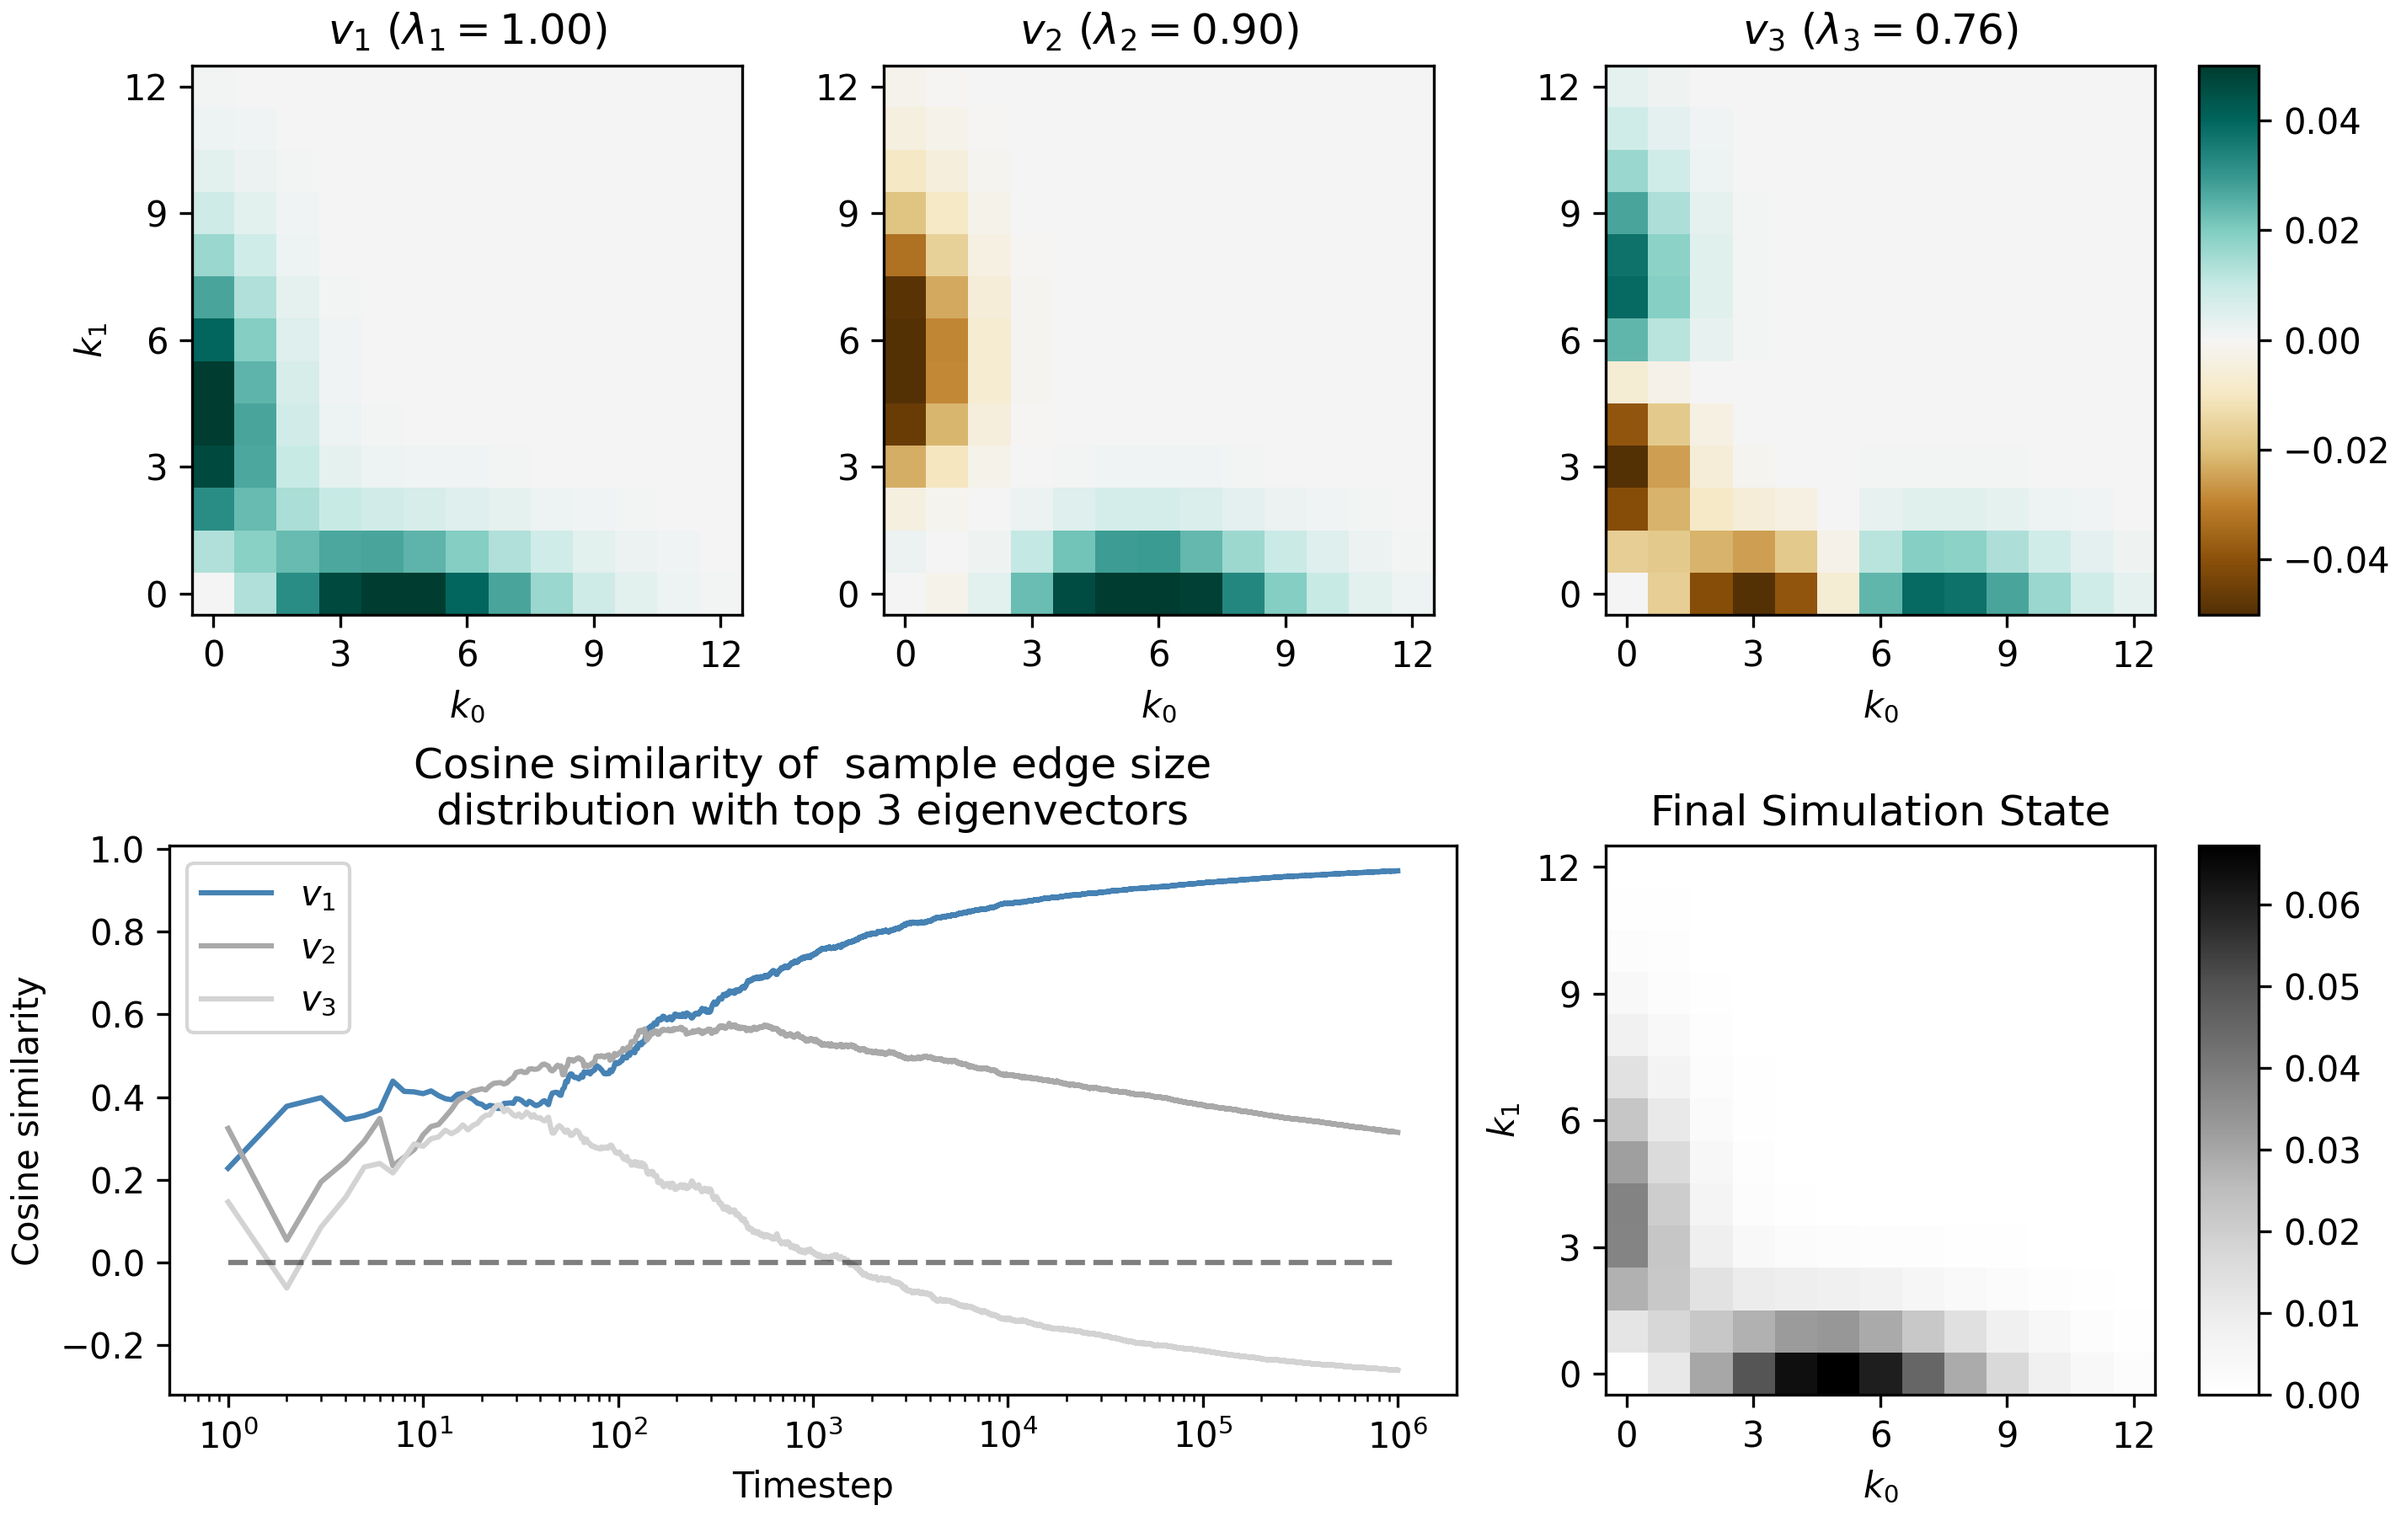
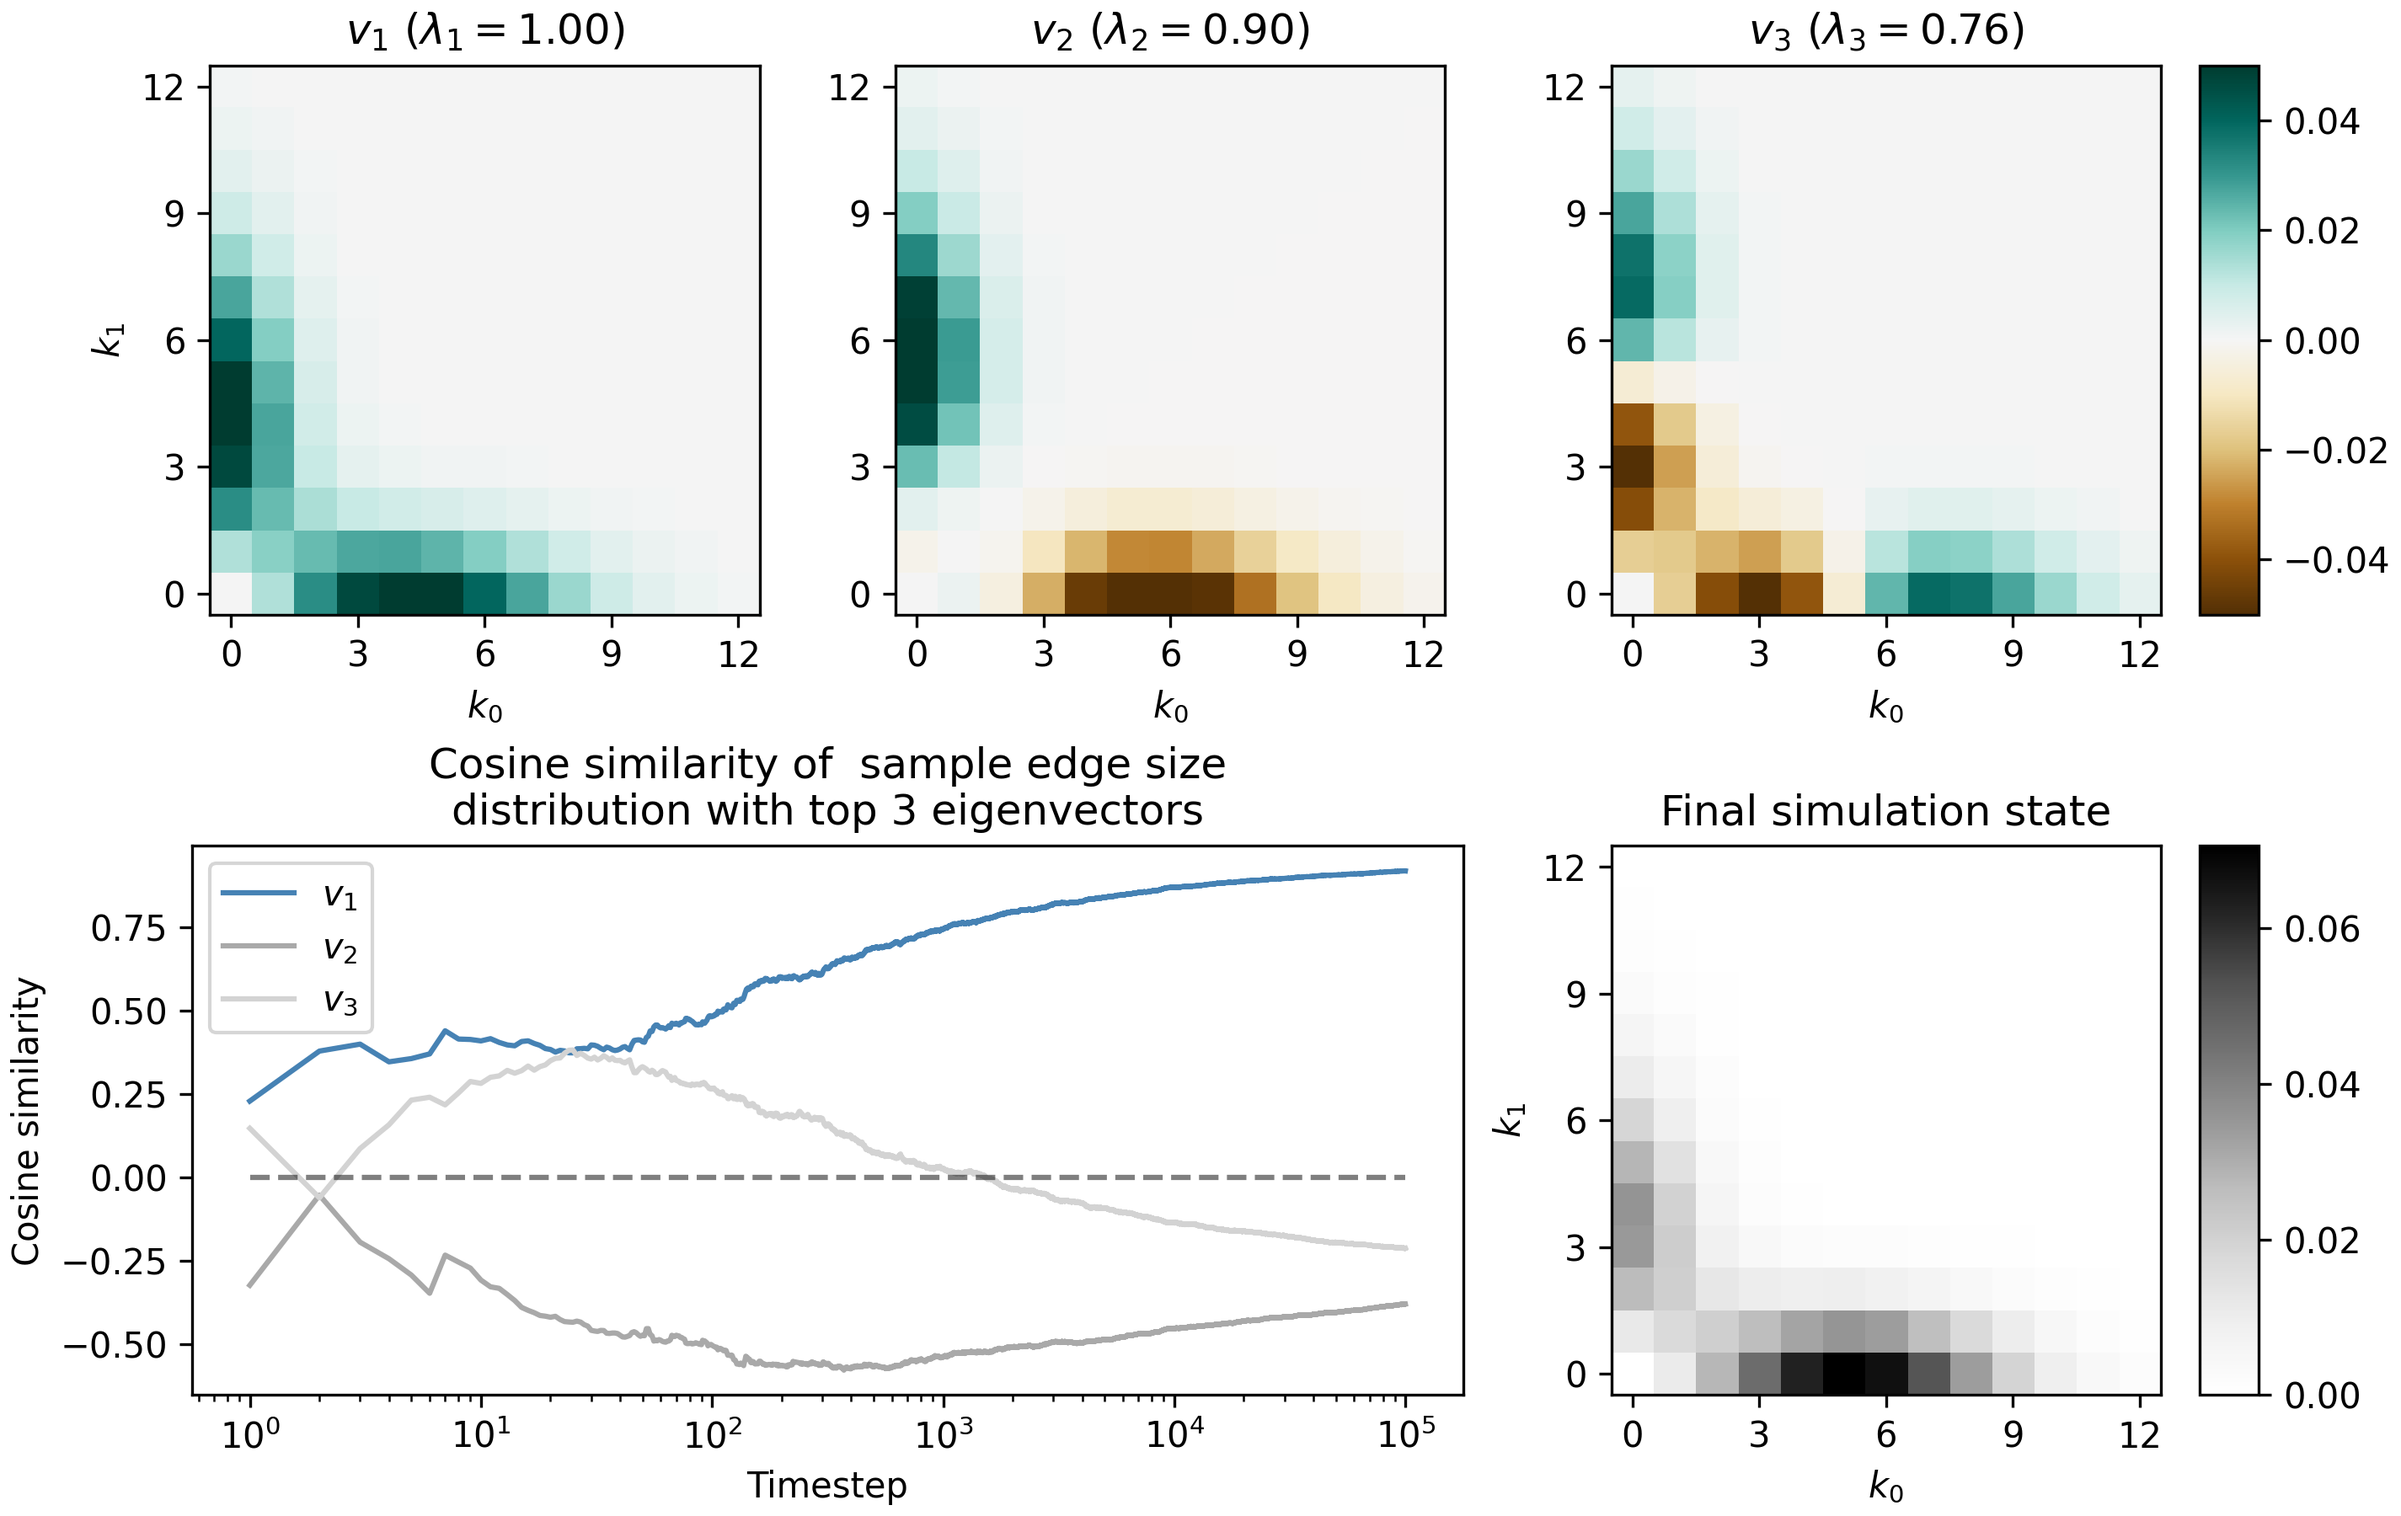
add some degree distribution analysis

diff --git a/scripts/stationarity-analysis.py b/scripts/stationarity-analysis.py
@@ -1,0 +1,162 @@
+import sys 
+sys.path.append("src")
+sys.path.append("scripts")
+
+
+import numpy as np 
+from itertools import product
+from matplotlib import pyplot as plt
+from scipy.special import binom
+from toy_edge_size_simulator import ToySimulator
+from matplotlib.gridspec import GridSpec
+from mpl_toolkits.axes_grid1 import make_axes_locatable
+from math import factorial
+from linear_map import matrix_of_linear_map
+
+
+
+
+if __name__ == "__main__":
+    
+    np.random.seed(123)
+    
+    k_max = 12
+    theta = [0.8, 0.2, 0.5, 0.2, 0.4, 0.2]
+    
+    # FIRST: spectral analysis of the linear operator governing the system dynamics
+    
+    M = matrix_of_linear_map(k_max, theta)
+    
+    # column sums should be equal to 1
+    
+    
+    fig, ax = plt.subplots(1, 1, figsize = (6, 6))
+    
+    ax.imshow(M, cmap = "viridis", interpolation = "nearest", origin = "lower")
+    ax.set_title("Matrix of Linear Map")
+    
+    # time for eigenstuff
+    vals, E = np.linalg.eig(M)    
+
+    # retrieve the top eigenvectors 
+    idx = vals.argsort()[::-1]
+    vals = vals[idx]
+    E = E[:, idx]
+    
+    eigvecs = []
+    for i in range(3):
+        vi = E[:, i].real
+        vi = vi / vi.sum()
+        vi = vi / np.abs(vi).sum()
+        eigvecs.append(vi.reshape((k_max + 1, k_max + 1)))
+    
+    
+    # SECOND: simulation with the same parameters
+    
+    n_steps = int(1e5)
+    project_every = 1
+    
+    C = np.zeros((k_max + 1, k_max + 1))
+    TS = ToySimulator(edge_list = [[5,5]], theta = theta, force_label = None)
+
+    projections = {i: [] for i in range(3)}
+    projection_timesteps = []
+    
+    # print(Cz)
+    # print((eigvecs[0]**2).sum())
+    
+    for j in range(1, n_steps): 
+        TS.simulate(n_samples = 1)
+        e = TS.edge_list[-1]
+        if e[0] <= k_max and e[1] <= k_max:
+            C[e[0], e[1]] += 1
+            
+        if j % project_every == 0:
+            for i in range(3): 
+                
+                C_ = C / np.sqrt((C**2).sum())
+                E_ = eigvecs[i]
+                E_norm = E_ / np.sqrt((E_**2).sum())
+                         
+                projections[i].append((E_norm*C_).sum())
+            projection_timesteps.append(j)
+            
+        
+    fig = plt.figure(layout="constrained", figsize = (9.5, 6))
+    
+    widths = [1, 1, 1, 0.1]
+    gs = GridSpec(2, 4, figure=fig, width_ratios=widths)
+    
+    axes = []
+    for i in range(3): 
+        axes.append(fig.add_subplot(gs[0, i]))
+    
+    axes.append(fig.add_subplot(gs[1, 0:2]))
+    axes.append(fig.add_subplot(gs[1, 2]))
+    
+    
+    # num_eigvecs = 3
+    
+    v_min = -0.05
+    vmax  = 0.05
+    
+    # fig, ax = plt.subplots(1, 4, figsize = (18, 6))
+    
+    colors = ["steelblue", "darkgrey", "lightgrey"]
+    
+    for i in range(3):
+        vi = np.real(E[:, i])
+        val = np.real(vals[i])
+        vi = vi / vi.sum()
+        vi = vi / np.abs(vi).sum()
+        P = vi.reshape((k_max + 1, k_max + 1))
+        
+        im = axes[i].imshow(P, cmap = "BrBG", interpolation = "none", vmin = v_min, vmax = vmax, origin = "lower")
+        axes[i].set_title(rf"$v_{i+1}$ ($\lambda_{i+1} = {val:.2f}$)")
+        axes[i].set_xlabel(r"$k_0$")
+        if i == 0: 
+            axes[i].set_ylabel(r"$k_1$")
+            
+        axes[i].set_xticks(range(0, k_max + 1, 3))
+        axes[i].set_yticks(range(0, k_max + 1, 3))
+        
+        
+        axes[3].plot(projection_timesteps, projections[i], label = fr"$v_{i+1}$", color = colors[i])
+        axes[3].legend()
+        axes[3].semilogx()
+        axes[3].set_title("Cosine similarity of  sample edge size\ndistribution with top 3 eigenvectors")
+    
+    
+    
+    
+    axes[3].plot([1, n_steps], [0, 0], "k--", alpha = 0.5)
+    axes[3].set_xlabel("Timestep")
+    axes[3].set_ylabel("Cosine similarity")
+    
+    
+    #     fig.colorbar(im, ax = ax[i])
+    
+    final = axes[4].imshow(C / C.sum(), cmap = "Greys", interpolation = "none", vmin = 0, origin = "lower")
+    axes[4].set_title(f"Final simulation state")
+    
+    axes[4].set_xlabel(r"$k_0$")
+    axes[4].set_ylabel(r"$k_1$")
+    
+    axes[4].set_xticks(range(0, k_max + 1, 3))
+    axes[4].set_yticks(range(0, k_max + 1, 3))
+    
+    cbar_ax = fig.add_subplot(gs[0, 3])
+    fig.colorbar(im, cax=cbar_ax)
+    
+    cbar_ax = fig.add_subplot(gs[1, 3])
+    fig.colorbar(final, cax=cbar_ax)
+    
+    # plt.tight_layout()
+
+    
+    # divider = make_axes_locatable(axes[4])
+    # cax = divider.append_axes('right', size='5%', pad=0.05)
+    # fig.colorbar(final, cax=cax, orientation='vertical');
+
+    
+    plt.savefig("fig/linear_map_eigenvectors.png", dpi = 300)

diff --git a/src/linear_map.py b/src/linear_map.py
@@ -1,0 +1,85 @@
+import numpy as np
+from itertools import product
+from scipy.special import binom
+from math import factorial
+
+def linear_operator(k_max, theta):
+    
+    eta_plus     = theta[0]
+    eta_minus    = theta[1]
+    lambda_plus  = theta[2]
+    lambda_minus = theta[3]
+    gamma_plus   = theta[4]
+    gamma_minus  = theta[5]
+    
+    A = np.zeros((k_max+1, k_max+1, k_max+1, k_max+1))
+        
+    # number of nodes of labels 0 and 1 in originating edge 
+    for k0, k1 in product(range(k_max + 1), range(k_max + 1)):
+        
+        if k0 + k1 == 0:
+            continue 
+        
+        for z_u in [0, 1]:
+        
+            eta_0, eta_1 = theta[z_u], theta[1 - z_u]
+            lambda_0, lambda_1 = theta[2 + z_u], theta[2 + 1 - z_u]
+            gamma_0, gamma_1 = theta[4 + z_u], theta[4 + 1 - z_u]
+            
+            # probability that selected node u has specified label z_u
+            q = [k0 / (k0 + k1), k1 / (k0 + k1)][z_u]
+            
+            # binomial node copying
+            for l0, l1 in product(range(k0+1), range(k1+1)):
+
+                if z_u == 0: 
+                    pl0 = binomial_pmf(l0, eta_0, k0, condition_1 = True)
+                    pl1 = binomial_pmf(l1, eta_1, k1, condition_1 = False)
+                    
+                else:
+                    pl0 = binomial_pmf(l0, eta_0, k0, condition_1 = False)
+                    pl1 = binomial_pmf(l1, eta_1, k1, condition_1 = True)
+                
+                # poisson node additions: extant nodes plus new nodes
+                for h0, h1 in product(range(k_max - l0 + 1), range(k_max - l1 + 1)):
+                    
+                    ph0 = poisson_pmf(h0, lambda_0 + gamma_0)
+                    ph1 = poisson_pmf(h1, lambda_1 + gamma_1)
+                
+                    A[k0, k1, l0 + h0, l1 + h1] += q*pl0*pl1*ph0*ph1
+                        
+    return A
+
+def binomial_pmf(n_success, prob, n_trials, condition_1 = False):
+    if not condition_1: 
+        return binom(n_trials, n_success) * (prob**n_success)*((1 - prob)**(n_trials - n_success))
+    
+    else:
+        if n_trials >= 1:
+            return binom(n_trials - 1, n_success-1)*(prob**(n_success - 1))*((1 - prob)**(n_trials - n_success))
+        else:
+            return 0
+
+def poisson_pmf(k, lam):
+    return (lam**k)*np.exp(-lam) / factorial(k)
+          
+def matrix_of_linear_map(k_max, theta):
+    
+    I = np.eye((k_max + 1)**2)
+    M = np.zeros(((k_max + 1)**2, (k_max + 1)**2))
+    
+    A = linear_operator(k_max, theta)
+    
+    for i in range((k_max + 1)**2):
+        
+        u = I[:, i] # basis vector
+        T = u.reshape((k_max + 1, k_max + 1)) # reshape to tensor
+        
+        # apply linear operator to T
+        # check on this for troubleshooting
+        S = np.einsum("ijkl, ij -> kl", A, T)
+        
+        v = S.reshape((k_max+1)**2) # reshape back to vector
+        M[:, i] = v
+        
+    return M

diff --git a/scripts/degree-distributions.py b/scripts/degree-distributions.py
@@ -1,0 +1,115 @@
+import sys 
+sys.path.append("src")
+sys.path.append("scripts")
+import poisson_hypergraph as ph 
+from linear_map import matrix_of_linear_map
+
+import xgi 
+from collections import Counter
+import numpy as np
+from matplotlib import pyplot as plt
+plt.style.use('seaborn-v0_8-whitegrid')
+
+
+theta = [0.7, 0.3, 0.5, 0.3, 0.2, 0.1]
+
+H = xgi.Hypergraph([[0, 1]])
+H.set_node_attributes({0 : 0, 1 : 1}, name = "label")
+g = ph.GH(H, [0, 1], theta[0], theta[1])
+
+# compute the slope of the degree distribution from the matrix of the linear map
+
+k_max = 10
+M = matrix_of_linear_map(k_max, theta)
+vals, E = np.linalg.eig(M)
+idx = vals.argsort()[::-1]
+v = E[:, idx[0]].real
+v = v / v.sum()
+P = v.reshape((k_max + 1, k_max + 1))
+
+
+# compute some moments of the 
+
+K_0 = np.arange(k_max + 1)[:, None] 
+K_1 = np.arange(k_max + 1)[None, :]
+K = K_0 + K_1
+
+rho_0 = np.nansum((K_0**2/K)*P)
+rho_1 = np.nansum((K_1**2/K)*P)
+rho_01 = np.nansum((K_0*K_1/K)*P)
+
+mean_d = np.nansum(K*P)
+
+a = (1 + theta[0]*(rho_0 + rho_1 - 1) + theta[1]*rho_01)/mean_d
+
+# need to review math and re-check this, probably not right as is
+zeta = 1 + (theta[4] + theta[5]) / a
+
+
+def degree_sequence(g):
+    edge_list = g.H.edges.members()
+    deg_seq = Counter()
+    for edge in edge_list:
+        for node in edge:
+            deg_seq[node] += 1
+    return np.array(list(deg_seq.values()))
+
+def log_binned_histogram(degree_sequence, interval = 5, num_bins = 20):
+    hist, bins = np.histogram(degree_sequence, bins = min(int(len(degree_sequence)/interval), num_bins))
+    bins = np.logspace(np.log10(bins[0]),np.log10(bins[-1]),len(bins))
+    hist, bins = np.histogram(degree_sequence, bins = bins)
+    binwidths = bins[1:] - bins[:-1]
+    hist = hist / binwidths
+    p = hist/hist.sum()
+
+    return bins[:-1], p
+
+for i in range(10000): 
+    g.add_hyperedge(2, theta[2], theta[3], theta[4], theta[5])
+    # print(i)
+    
+d = degree_sequence(g)
+
+fig, ax = plt.subplots(figsize = (6,5))
+
+centers, heights = log_binned_histogram(d, num_bins = 30)
+
+dmax = d.max()
+dmin = d.min()
+
+upper = dmax 
+lower = dmax / 5
+
+offset = (0.2, .05)
+
+x = np.linspace(max(100, lower), upper, 10)*offset[0]
+
+
+y = (x ** (-zeta)) 
+
+y = offset[1]*y / y.sum()
+
+ax.plot(x, y, linestyle = "--", color = "black", zorder = -10, linewidth=1)
+ax.annotate(fr"$\zeta=${zeta:.2f}", xy = (x[0]*2, y[0]/2))
+
+
+ax.scatter(centers, heights, facecolors='none', edgecolors =  'cornflowerblue', linewidth = 2)
+ax.set_xscale("log")
+ax.set_yscale("log")
+ax.set_xlabel("Degree")
+ax.set_ylabel("Probability")
+
+
+title = fr"""
+Degree distribution
+$\eta_+ = {theta[0]}, \eta_- = {theta[1]}$
+$\lambda_+ = {theta[2]}, \lambda_- = {theta[3]}$
+$\gamma_+ = {theta[4]}, \gamma_- = {theta[5]}$
+"""
+
+ax.set_title(title, fontsize = 10)
+
+
+plt.tight_layout()
+
+plt.savefig("fig/degree_distribution.png")
